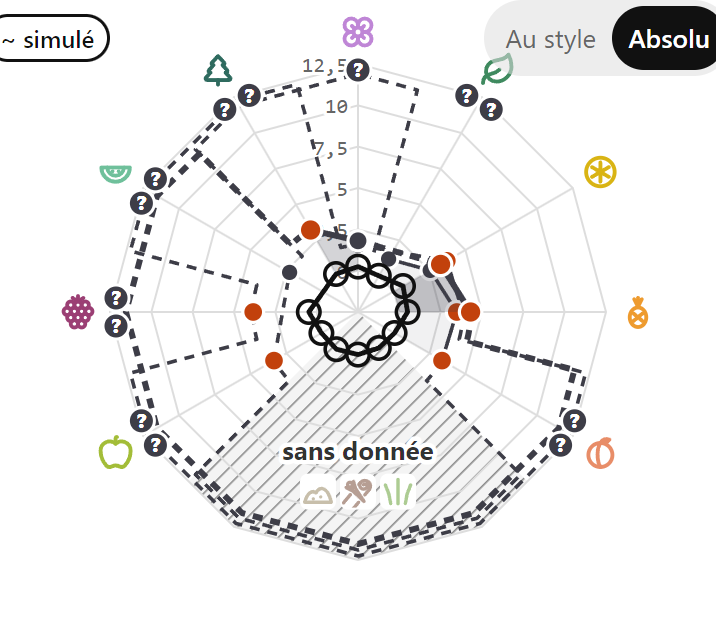
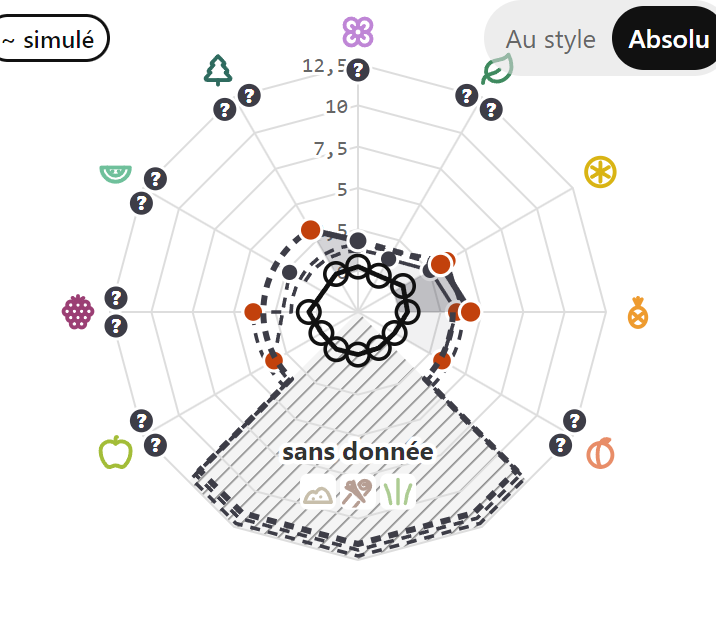
r2 suite (D180) : Comparer Absolu sans rayons tiretés (arc d'anneau au rayon du plus bas des deux points) ; contrôle étendu, rouge sur f5a53f99 ; capture de la marque « peu de données »

diff --git a/src/ui/hopIndex/commun/RadarBase.tsx b/src/ui/hopIndex/commun/RadarBase.tsx
@@ -160,18 +160,29 @@ export function RadarBase({ familles, series, mode, moment, zone: zoneP, referen
   };
   /** Le seuil du contrôle : 30 % du rayon, ou 85 % du plus bas des deux points (un point bas reste bas : c'est la corde qui s'écarte). */
   const seuilCorde = (rA: number, rB: number) => Math.min(0.3 * RR, 0.85 * Math.min(rA, rB));
-  const cheminAutour = (a: number, b: number, rA: number, rB: number, ko: number) => {
-    const n = ecart(a, b), d = 2 + 3 * ko, f = (RR - d) / RR;
-    const M1 = mil(a, RR), M2 = mil(a + n - 1, RR);
+  /** Tous les axes entre `a` et `b` sont-ils hachurés (inconnus de toutes les séries) ? Alors le tireté longe leur bord. */
+  const toutHachure = (a: number, b: number) => { for (let k = (a + 1) % N; k !== b; k = (k + 1) % N) if (!inc[k]) return false; return true; };
+  /** Une corde basse sur des axes que seule cette série ignore : un arc d'anneau au rayon du plus bas des deux points. Il ne
+   *  monte pas au bord (critique r2 : en Absolu, des rayons de tiretés du contour au bord couvraient la vue). */
+  const cheminArc = (a: number, b: number, rA: number, rB: number) => {
+    const r = Math.min(rA, rB), n = ecart(a, b);
+    return [`M${xy(pt(a, rA))}`, `L${xy(pt(a, r))}`, `A${rd(r)} ${rd(r)} 0 ${n * PAS > Math.PI ? 1 : 0} 1 ${xy(pt(b, r))}`, `L${xy(pt(b, rB))}`].join(' ');
+  };
+  /** Le tour du bord d'un secteur hachuré : de `a`, un arc d'anneau (au rayon du plus bas des deux points) jusqu'à l'arête du
+   *  secteur, l'arête vers le bord, le tour, et le retour. Le secteur couvre les axes `u` à `w` (indices dépliés, après `a`) :
+   *  le groupe seul si d'autres axes sans valeur de cette série le précèdent ou le suivent (l'arc les traverse, il ne monte pas). */
+  const cheminAutour = (a: number, b: number, rA: number, rB: number, ko: number, u: number, w: number) => {
+    const d = 2 + 3 * ko, f = (RR - d) / RR, n = ecart(a, b);
+    const M1 = mil(u - 1, RR), M2 = mil(w, RR);
     const L1 = Math.hypot(M1[0] - CX, M1[1] - CY), L2 = Math.hypot(M2[0] - CX, M2[1] - CY);
-    const r1 = Math.min(rA, f * L1), r2 = Math.min(rB, f * L2);
-    const sur = (M: P2, L: number, r: number): P2 => [CX + ((M[0] - CX) * r) / L, CY + ((M[1] - CY) * r) / L];
+    const r = Math.min(rA, rB, f * L1, f * L2);
+    const sur = (M: P2, L: number): P2 => [CX + ((M[0] - CX) * r) / L, CY + ((M[1] - CY) * r) / L];
     const bord = (p: P2): P2 => [CX + (p[0] - CX) * f, CY + (p[1] - CY) * f];
-    const arc = (r: number, p: P2) => `A${rd(r)} ${rd(r)} 0 0 1 ${xy(p)}`;
+    const arc = (p: P2, ang: number) => `A${rd(r)} ${rd(r)} 0 ${ang > Math.PI ? 1 : 0} 1 ${xy(p)}`;
     return [
-      `M${xy(pt(a, rA))}`, `L${xy(pt(a, r1))}`, arc(r1, sur(M1, L1, r1)),
-      `L${xy(bord(M1))}`, ...Array.from({ length: n - 1 }, (_, k) => `L${xy(bord(pt(a + 1 + k, RR)))}`), `L${xy(bord(M2))}`,
-      `L${xy(sur(M2, L2, r2))}`, arc(r2, pt(b, r2)), `L${xy(pt(b, rB))}`,
+      `M${xy(pt(a, rA))}`, `L${xy(pt(a, r))}`, arc(sur(M1, L1), (u - 0.5 - a) * PAS),
+      `L${xy(bord(M1))}`, ...Array.from({ length: w - u + 1 }, (_, k) => `L${xy(bord(pt(u + k, RR)))}`), `L${xy(bord(M2))}`,
+      `L${xy(sur(M2, L2))}`, arc(pt(b, r), (a + n - w - 0.5) * PAS), `L${xy(pt(b, rB))}`,
     ].join(' ');
   };
 
@@ -250,7 +261,11 @@ export function RadarBase({ familles, series, mode, moment, zone: zoneP, referen
                     }
                     if (de != null) {
                       const a = de, b = de === sg.i ? sg.j : sg.i;
-                      return <path key={`t${sg.i}`} data-role="tirete" data-contour="bord" d={cheminAutour(a, b, rvA(a, v[a]!), rvA(b, v[b]!), ko)} fill="none" {...trait} strokeDasharray="5 4" strokeLinecap="butt" />;
+                      // Le bord pour un secteur hachuré (regroupé en bas, ou « pas goûté » de Ma bière) ; sinon un arc d'anneau.
+                      const bord = tourSecteur(a, b) || toutHachure(a, b);
+                      // Le secteur longé : le groupe, s'il est dans l'enjambée ; sinon tous les axes entre a et b (tous hachurés).
+                      const u = tourSecteur(a, b) ? a + ecart(a, groupe[0]) : a + 1, w = tourSecteur(a, b) ? a + ecart(a, groupe[groupe.length - 1]) : a + ecart(a, b) - 1;
+                      return <path key={`t${sg.i}`} data-role="tirete" data-contour={bord ? 'bord' : 'arc'} d={bord ? cheminAutour(a, b, rvA(a, v[a]!), rvA(b, v[b]!), ko, u, w) : cheminArc(a, b, rvA(a, v[a]!), rvA(b, v[b]!))} fill="none" {...trait} strokeDasharray="5 4" strokeLinecap="butt" />;
                     }
                     return <line key={`t${sg.i}`} data-role={sg.plein ? 'trait' : 'tirete'} x1={rd(p[0])} y1={rd(p[1])} x2={rd(q[0])} y2={rd(q[1])} {...trait} {...(sg.plein ? {} : { strokeDasharray: '5 4', strokeLinecap: 'butt' as const })} />; })}
                 </>;

diff --git a/tests/unit/hopIndexV4/radarLisible.test.tsx b/tests/unit/hopIndexV4/radarLisible.test.tsx
@@ -67,6 +67,20 @@ describe('radar commun D180 : le tireté longe le secteur « sans donnée »', (
   });
 });
 
+describe('radar commun D180, Comparer en Absolu (critique r2) : une corde basse ne monte pas au bord', () => {
+  it('une série à qui il manque trois familles que les autres décrivent : un arc d\'anneau, pas de rayon vers le bord', () => {
+    const bas1 = Object.fromEntries(FAMILLES.map((f) => [f, 1]));
+    const h = rendre([serie('A', 'retenu', '#009E73', { ...bas1, stoneFruit: null, pomeFruit: null, berries: null }), serie('B', 'autre', '#0072B2', bas1)]);
+    const t = tires(h);
+    expect(t).toHaveLength(1);
+    expect(t[0].html).toContain('data-contour="arc"');
+    const jetons = t[0].d!.match(/[MLA][^MLA]*/g)!;
+    const rayons = jetons.map((j) => { const n = j.slice(1).trim().split(/[ ,]+/).map(Number); return j[0] === 'A' ? n[0] : Math.hypot(n[0] - CX, n[1] - CY); });
+    expect(Math.max(...rayons)).toBeLessThan(0.55 * RR); // les deux points sont à 50 % : rien au-delà
+    expect(distMin(t[0])).toBeGreaterThanOrEqual(0.3 * RR - 0.5);
+  });
+});
+
 describe('radar commun D181 : des points qu\'on voit', () => {
   const html = rendre([serie('Caliente', 'autre', '#0072B2'), serie('Citra cryo', 'retenu', '#009E73', { ...bas, citrus: 2 })]);
   const cercles = (nom: string) => (html.slice(html.indexOf(`data-serie="${nom}"`)).match(/<circle[^>]*data-point[^>]*>/g) ?? []);

diff --git a/work/missions/2026-10-25-integration-houblons/voies/r2-radar-lisible/RESULTAT.md b/work/missions/2026-10-25-integration-houblons/voies/r2-radar-lisible/RESULTAT.md
@@ -1,4 +1,16 @@
-OK — radar commun : tiretés longent le secteur « sans donnée » (D180), points 9–10 px à liseré blanc (D181), contrôles rouges sur HEAD
+OK — radar commun : tiretés longent le secteur hachuré ou font un arc (Comparer Absolu corrigé), points 9–10 px à liseré blanc
+
+## CORRECTION 2 (après la critique, sur f5a53f99) : Comparer en Absolu
+Cause : la branche `bas` envoyait aussi les cordes basses d'axes que seule une série ignore jusqu'au bord (rayons du contour au bord). Correctif, sans toucher aux autres écrans :
+- le **tour du bord** reste pour un secteur hachuré : le groupe « sans donnée » (Substituer, fiche, Comparer) et les axes « pas goûté » de Ma bière (inchangés : captures identiques à celles que le critique a acceptées) ;
+- une **corde basse sur des axes que seule cette série ignore** : un arc d'anneau au rayon du plus bas des deux points (`data-contour="arc"`), sans aller-retour radial (`cheminArc`) ;
+- une enjambée qui contient le groupe **et** d'autres axes sans valeur de la série : un arc au rayon du plus bas des deux points jusqu'à l'arête du groupe, puis le tour du groupe seul (avant : le tour de tout l'enjambement, d'où les rayons).
+Contrôle étendu (`controle-radar-lisible.mjs`) : un tireté ne s'éloigne pas du centre au-delà du plus haut de ses deux points (+ 2) sauf le long d'un secteur hachuré (à 4 px près) ; il couvre Comparer en Absolu (déjà mesuré) et au style. Test unitaire neuf : une série à qui il manque trois familles → arc, rayons ≤ 55 %.
+- Sur **f5a53f99** (copie hors dépôt) : `LISIBLE ECHEC 4` (4 tiretés de Comparer Absolu : « monte au bord hors de tout secteur hachuré », 64 à 108 points sur 121) ; test unitaire neuf : `1 failed | 5 passed`.
+- Sur le code corrigé : `LISIBLE OK` ; `npx vitest run radarLisible + radarContourOriginal` (+ radarBiere) : `3 files, 14 tests passed` ; `npm run build` : `✓ built in 22.89s` ; `controle-contour-original` → `CONTOUR OK` ; `controle-trait-ta-biere` → `TRAIT OK`.
+- **`img/comparer-absolu-apres.png` rouvert** : le petit contour central reste net ; plus aucun rayon vers le bord ; les tiretés de Lotus, Calypso et Solero font de courts arcs serrés autour du contour, puis longent le secteur « sans donnée » (trois liserés parallèles). Substituer (`substituer-apres.png`) et Ma bière rouverts : même lecture qu'avant, la corde baies → noyau n'existe plus ; Ma bière identique à celle acceptée. Avant correction : `img/comparer-absolu-f5a53f99.png`.
+- **Marque « peu de données » (voie c7), ouverte en image** (`img/peu-de-donnees-ecran.png`, `img/peu-de-donnees-ligne.png`) : recherche « Usda 200010 008 » (première variété `peuDeDonnees` du catalogue : 163 sur 505) dans l'ajout rapide, 390 × 844. La ligne : « Usda 200010 008  α 11,1 % / amérisant · caddie · *peu de données* (italique) / 10 g +4 IBU », pastille 10′ à droite. Mesuré : 13 px, gris `rgb(102,102,102)` (≈ 5,7:1 sur le fond clair), 88 × 18 px, sur la ligne d'origine, rien de tronqué ni de chevauché. Lisible, discret, hiérarchie de la ligne intacte (nom, α, rôle d'abord). Je n'ai rien de plus à signaler : c'est un texte, il ne dépend pas du radar.
+- Limite : Comparer Au style garde ses cordes droites d'inconnus isolés en haut à gauche (65 à 87 % du rayon), signalées par le critique comme non bloquantes ; non touchées, comme demandé.
 
 ## Fichiers écrits
 - `src/ui/hopIndex/commun/RadarBase.tsx` (dessin du radar seulement).
@@ -40,7 +52,7 @@ DEMANDE EXECUTANT :
 5. À ouvrir en image : les captures que ces contrôles écrivent pour Comparer au repos et en Absolu, la fiche, Suggérer en Radar, Ma bière en Radar. Dire si un tireté traverse encore un radar, et si un point est plus petit que 9 px.
 Ne rien écrire hors de `maquettes/parcours-r2` et de `os.tmpdir()`.
 
-DÉCISION À PRENDRE : le tracé le long du bord vaut-il aussi pour les cordes basses hors du secteur regroupé (Ma bière, Comparer) ? Options : (a) oui, comme livré : le contrôle « aucun tireté à moins de 30 % » tient partout, mais le bord de Comparer à trois houblons se charge ; (b) non, seulement le secteur « sans donnée » regroupé, comme dit au départ : le contrôle ne porte alors que sur lui, et Ma bière garde ses cordes à 16 % du rayon. Recommandation : (a), car sa plainte vise tout trait qui traverse le graphe ; revenir à (b) en retirant la branche `bas` de `RadarBase.tsx` (3 lignes).
+DÉCISION (tranchée par la critique : arc d’anneau pour les cordes basses hors secteur hachuré, voir CORRECTION 2) : le tracé le long du bord vaut-il aussi pour les cordes basses hors du secteur regroupé (Ma bière, Comparer) ? Options : (a) oui, comme livré : le contrôle « aucun tireté à moins de 30 % » tient partout, mais le bord de Comparer à trois houblons se charge ; (b) non, seulement le secteur « sans donnée » regroupé, comme dit au départ : le contrôle ne porte alors que sur lui, et Ma bière garde ses cordes à 16 % du rayon. Recommandation : (a), car sa plainte vise tout trait qui traverse le graphe ; revenir à (b) en retirant la branche `bas` de `RadarBase.tsx` (3 lignes).
 
 CONNAISSANCE : le radar commun a deux dessins de tireté (ligne droite pour un inconnu isolé, chemin le long du bord pour une corde basse ou un secteur regroupé) ; ils se distinguent par `data-contour="bord"`. Un contrôle qui cherche `line[data-role="tirete"]` rate les chemins.
 LEÇON PROPOSÉE : un contrôle « avant » contre HEAD se lance depuis une copie de HEAD hors dépôt (git archive + jonction `node_modules` + `.env` et fichiers ignorés comme `src/data/seedData.ts`), jamais en remplaçant le fichier dans l'arbre de travail (L17).
